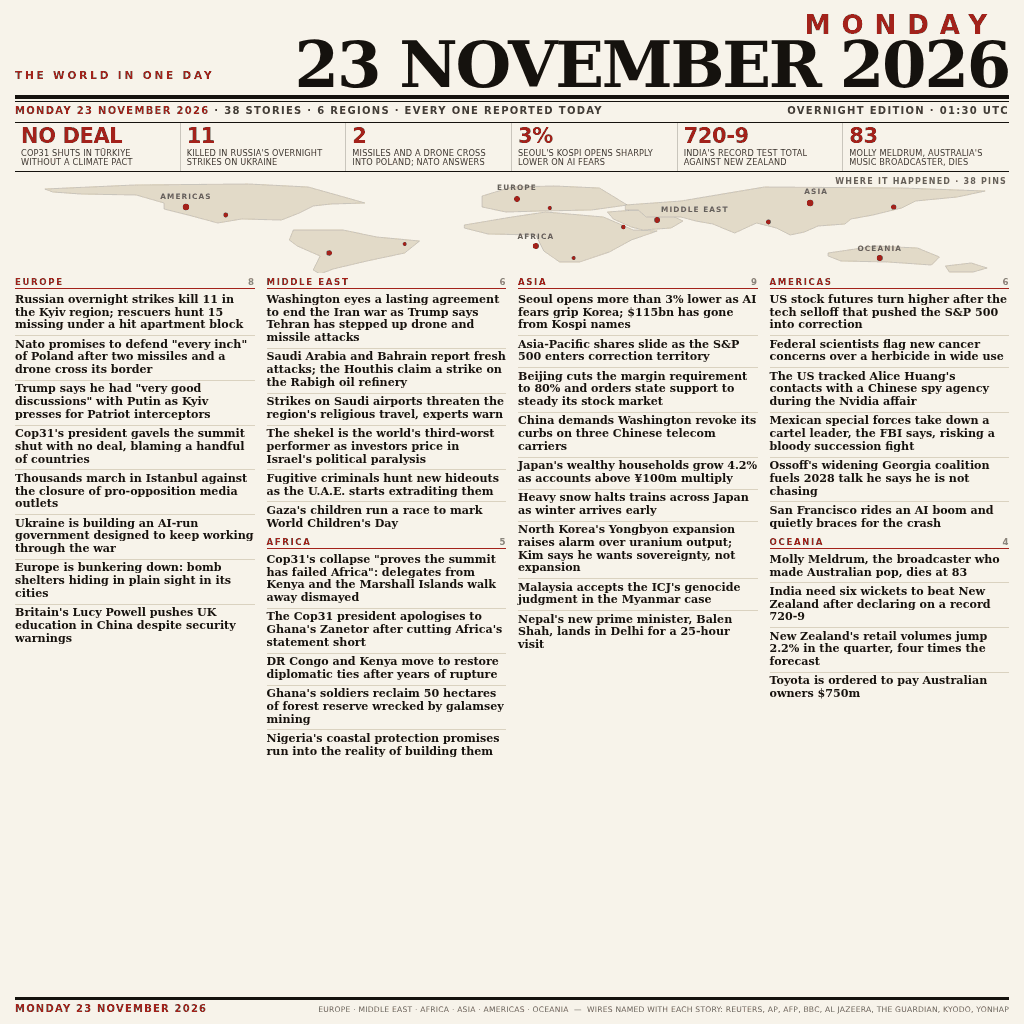
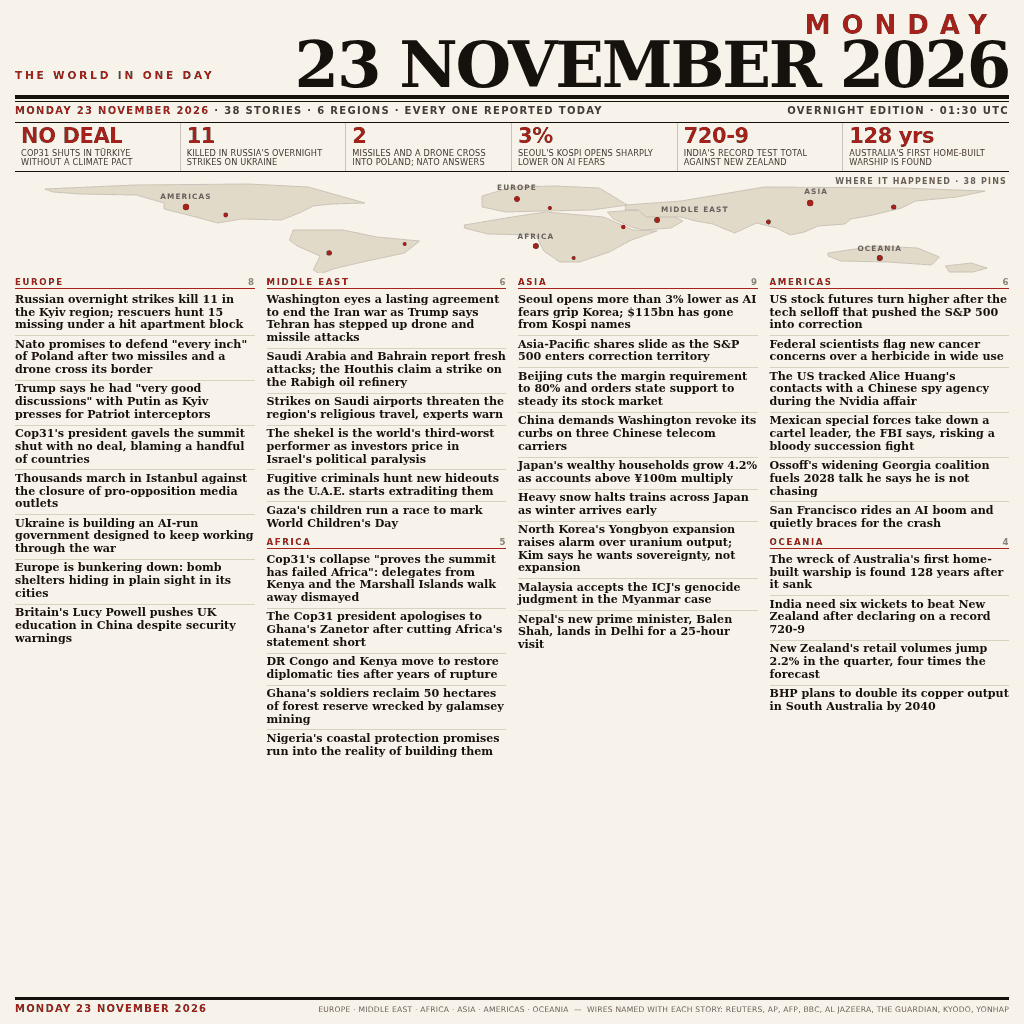
entry: swap two Oceania lines for items no reader can call invented

Changed region(s): [[0.75, 0.5312, 1.0, 0.7188], [0.8125, 0.125, 0.9688, 0.1875]]

diff --git a/card.html b/card.html
@@ -79,7 +79,7 @@
     <div class="num"><div class="v">2</div><div class="l">Missiles and a drone cross into Poland; Nato answers</div></div>
     <div class="num"><div class="v">3%</div><div class="l">Seoul's Kospi opens sharply lower on AI fears</div></div>
     <div class="num"><div class="v">720-9</div><div class="l">India's record Test total against New Zealand</div></div>
-    <div class="num"><div class="v">83</div><div class="l">Molly Meldrum, Australia's music broadcaster, dies</div></div>
+    <div class="num"><div class="v">128 yrs</div><div class="l">Australia's first home-built warship is found</div></div>
   </div>
 
   <div class="mapwrap">
@@ -178,10 +178,10 @@
       </div>
       <div class="sec">
         <div class="sec-h">Oceania <span>4</span></div>
-        <div class="hl">Molly Meldrum, the broadcaster who made Australian pop, dies at 83</div>
+        <div class="hl">The wreck of Australia's first home-built warship is found 128 years after it sank</div>
         <div class="hl">India need six wickets to beat New Zealand after declaring on a record 720-9</div>
         <div class="hl">New Zealand's retail volumes jump 2.2% in the quarter, four times the forecast</div>
-        <div class="hl">Toyota is ordered to pay Australian owners $750m</div>
+        <div class="hl">BHP plans to double its copper output in South Australia by 2040</div>
       </div>
     </div>
 
